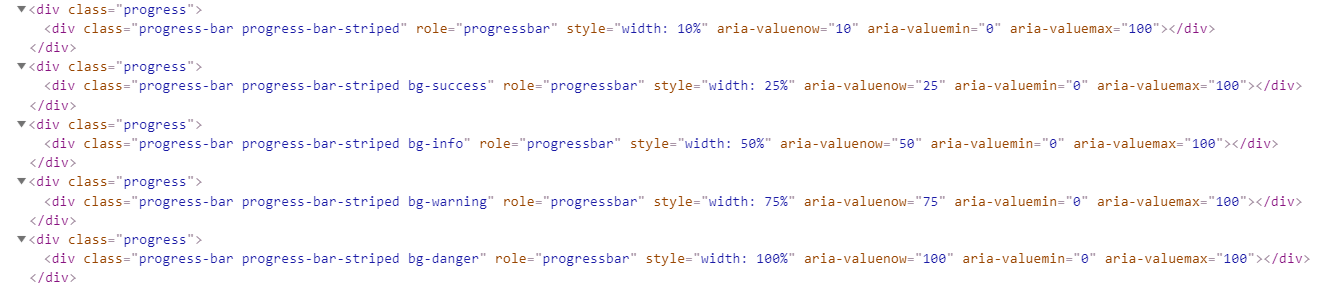
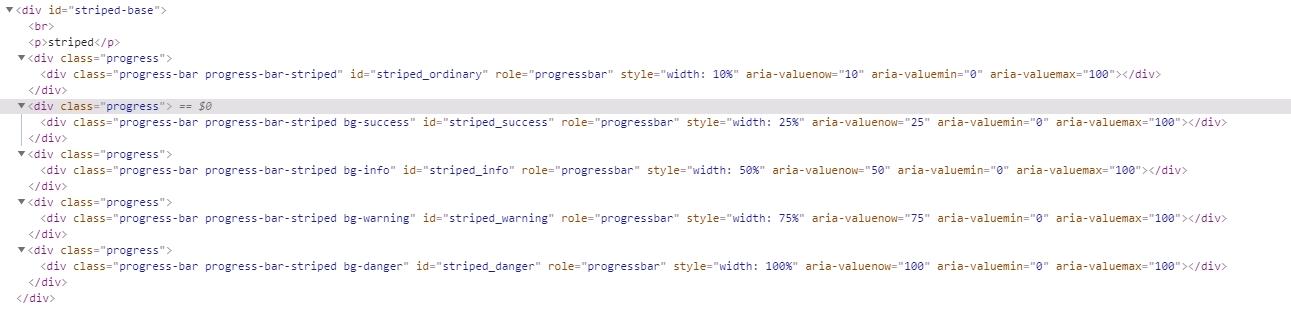
publish: Merge branch 'master' into Striped_progress_bar_task_817
generated from commit 656d5ff0d7edb829c358486340e5232a53ce3ec9

Changed region(s): [[0.0, 0.0, 1.0, 0.7705], [0.0, 0.8014, 0.9915, 0.9863]]

diff --git a/index.html b/index.html
@@ -10126,8 +10126,91 @@ Below are examples of different toggle styles.</p>
 <p><img src="images/bootstrap/progress-multiple-html.png" alt="Progress multiple HTML example" /></p>
 
 <p><strong>With striped design</strong></p>
+<pre class="highlight java tab-java"><code>
+    <span class="kd">public</span> <span class="kd">class</span> <span class="nc">BootstrapPage</span> <span class="kd">extends</span> <span class="n">WebPage</span> <span class="o">{</span>
+    <span class="nd">@UI</span><span class="o">(</span><span class="s">"#striped-base .progress"</span><span class="o">)</span> <span class="kd">public</span> <span class="kd">static</span> <span class="n">JList</span><span class="o">&lt;</span><span class="n">ProgressSection</span><span class="o">&gt;</span> <span class="n">progressSections</span><span class="o">;</span>
+    <span class="o">}</span>
 
+    <span class="kd">public</span> <span class="kd">class</span> <span class="nc">ProgressSection</span> <span class="kd">extends</span> <span class="n">Section</span> <span class="o">{</span>
+        <span class="c1">//@FindBy(css = ".progress-bar")</span>
+        <span class="nd">@UI</span><span class="o">(</span><span class="s">".progress-bar"</span><span class="o">)</span>
+        <span class="kd">public</span> <span class="n">Progress</span> <span class="n">progress</span><span class="o">;</span>
+    <span class="o">}</span>
+
+
+    <span class="nd">@DataProvider</span>
+    <span class="kd">public</span> <span class="kd">static</span> <span class="n">Object</span><span class="o">[][]</span> <span class="nf">progressData</span><span class="o">()</span> <span class="o">{</span>
+        <span class="k">return</span> <span class="k">new</span> <span class="n">Object</span><span class="o">[][]{</span>
+                <span class="o">{</span><span class="s">"striped_ordinary"</span><span class="o">,</span> <span class="s">"10"</span><span class="o">,</span> <span class="s">"rgba(0, 123, 255, 1)"</span><span class="o">,</span> <span class="s">"0"</span><span class="o">,</span> <span class="s">"100"</span><span class="o">,</span> <span class="s">"progress-bar-striped"</span><span class="o">},</span>
+                <span class="o">{</span><span class="s">"striped_success"</span><span class="o">,</span> <span class="s">"25"</span><span class="o">,</span> <span class="s">"rgba(40, 167, 69, 1)"</span><span class="o">,</span> <span class="s">"0"</span><span class="o">,</span> <span class="s">"100"</span><span class="o">,</span> <span class="s">"progress-bar-striped"</span><span class="o">},</span>
+                <span class="o">{</span><span class="s">"striped_info"</span><span class="o">,</span> <span class="s">"50"</span><span class="o">,</span> <span class="s">"rgba(23, 162, 184, 1)"</span><span class="o">,</span> <span class="s">"0"</span><span class="o">,</span> <span class="s">"100"</span><span class="o">,</span> <span class="s">"progress-bar-striped"</span><span class="o">},</span>
+                <span class="o">{</span><span class="s">"striped_warning"</span><span class="o">,</span> <span class="s">"75"</span><span class="o">,</span> <span class="s">"rgba(255, 193, 7, 1)"</span><span class="o">,</span> <span class="s">"0"</span><span class="o">,</span> <span class="s">"100"</span><span class="o">,</span> <span class="s">"progress-bar-striped"</span><span class="o">},</span>
+                <span class="o">{</span><span class="s">"striped_danger"</span><span class="o">,</span> <span class="s">"100"</span><span class="o">,</span> <span class="s">"rgba(220, 53, 69, 1)"</span><span class="o">,</span> <span class="s">"0"</span><span class="o">,</span> <span class="s">"100"</span><span class="o">,</span> <span class="s">"progress-bar-striped"</span><span class="o">}</span>
+        <span class="o">};</span>
+    <span class="o">}</span>
+
+    <span class="nd">@Test</span><span class="o">(</span><span class="n">dataProvider</span> <span class="o">=</span> <span class="s">"progressData"</span><span class="o">)</span>
+    <span class="kd">public</span> <span class="kt">void</span> <span class="nf">checkProgressData</span><span class="o">(</span><span class="n">String</span> <span class="n">progressId</span><span class="o">,</span> <span class="n">String</span> <span class="n">value</span><span class="o">,</span> <span class="n">String</span> <span class="n">color</span><span class="o">,</span>
+                                  <span class="n">String</span> <span class="n">min</span><span class="o">,</span> <span class="n">String</span> <span class="n">max</span><span class="o">,</span> <span class="n">String</span> <span class="n">classStriped</span><span class="o">)</span> <span class="o">{</span>
+
+        <span class="n">progressSections</span><span class="o">.</span><span class="na">stream</span><span class="o">().</span><span class="na">filter</span><span class="o">(</span><span class="n">progressSection</span> <span class="o">-&gt;</span>
+                <span class="n">progressSection</span><span class="o">.</span><span class="na">progress</span><span class="o">.</span><span class="na">attr</span><span class="o">(</span><span class="s">"id"</span><span class="o">).</span><span class="na">equals</span><span class="o">(</span><span class="n">progressId</span><span class="o">)).</span><span class="na">forEach</span><span class="o">(</span>
+                <span class="n">progressSection</span> <span class="o">-&gt;</span> <span class="o">{</span>
+                    <span class="n">assertThat</span><span class="o">(</span><span class="n">progressSection</span><span class="o">.</span><span class="na">progress</span><span class="o">.</span><span class="na">core</span><span class="o">().</span><span class="na">attr</span><span class="o">(</span><span class="s">"class"</span><span class="o">),</span> <span class="n">containsString</span><span class="o">(</span><span class="n">classStriped</span><span class="o">));</span>
+                    <span class="n">progressSection</span><span class="o">.</span><span class="na">progress</span><span class="o">.</span><span class="na">is</span><span class="o">().</span><span class="na">ariaValue</span><span class="o">(</span><span class="n">value</span><span class="o">)</span>
+                                                 <span class="o">.</span><span class="na">color</span><span class="o">(</span><span class="n">color</span><span class="o">)</span>
+                                                 <span class="o">.</span><span class="na">minValue</span><span class="o">(</span><span class="n">min</span><span class="o">)</span>
+                                                 <span class="o">.</span><span class="na">maxValue</span><span class="o">(</span><span class="n">max</span><span class="o">);</span>
+                <span class="o">});</span>
+    <span class="o">}</span>
+
+    <span class="nd">@Test</span>
+    <span class="kd">public</span> <span class="kt">void</span> <span class="nf">baseValidationTest</span><span class="o">()</span> <span class="o">{</span>
+        <span class="n">progressSections</span><span class="o">.</span><span class="na">forEach</span><span class="o">(</span>
+                <span class="n">progressSection</span> <span class="o">-&gt;</span>
+                        <span class="n">baseValidation</span><span class="o">(</span><span class="n">progressSection</span><span class="o">.</span><span class="na">progress</span><span class="o">));</span>
+
+    <span class="o">}</span>
+</code></pre>
 <p><img src="images/bootstrap/progress-striped.png" alt="Progress striped example" /></p>
+
+<p><a href="https://github.com/jdi-testing/jdi-light/tree/bootstrap/jdi-light-bootstrap-tests/src/test/java/io/github/epam/bootstrap/tests/composite/section/listprogressbars/ProgressBarsListTests.java" target=a_blank> Bootstrap test examples </a></p>
+
+<p>Available methods in Java JDI Light:</p>
+
+<table><thead>
+<tr>
+<th>Method/Property</th>
+<th>Description</th>
+<th>Return Type</th>
+</tr>
+</thead><tbody>
+<tr>
+<td><strong>getAriaValue()</strong></td>
+<td>Get aria value of the bar</td>
+<td>String</td>
+</tr>
+<tr>
+<td><strong>getColor()</strong></td>
+<td>Get color of the bar</td>
+<td>String</td>
+</tr>
+<tr>
+<td><strong>getMaxValue()</strong></td>
+<td>Get max value of the bar</td>
+<td>String</td>
+</tr>
+<tr>
+<td><strong>getMinValue()</strong></td>
+<td>Get max value of the bar</td>
+<td>String</td>
+</tr>
+<tr>
+<td><strong>is()</strong></td>
+<td>Various assert actions for Progress</td>
+<td>ProgressAssert</td>
+</tr>
+</tbody></table>
 
 <p>Here is an example with provided Bootstrap v4.3 code:</p>
 
